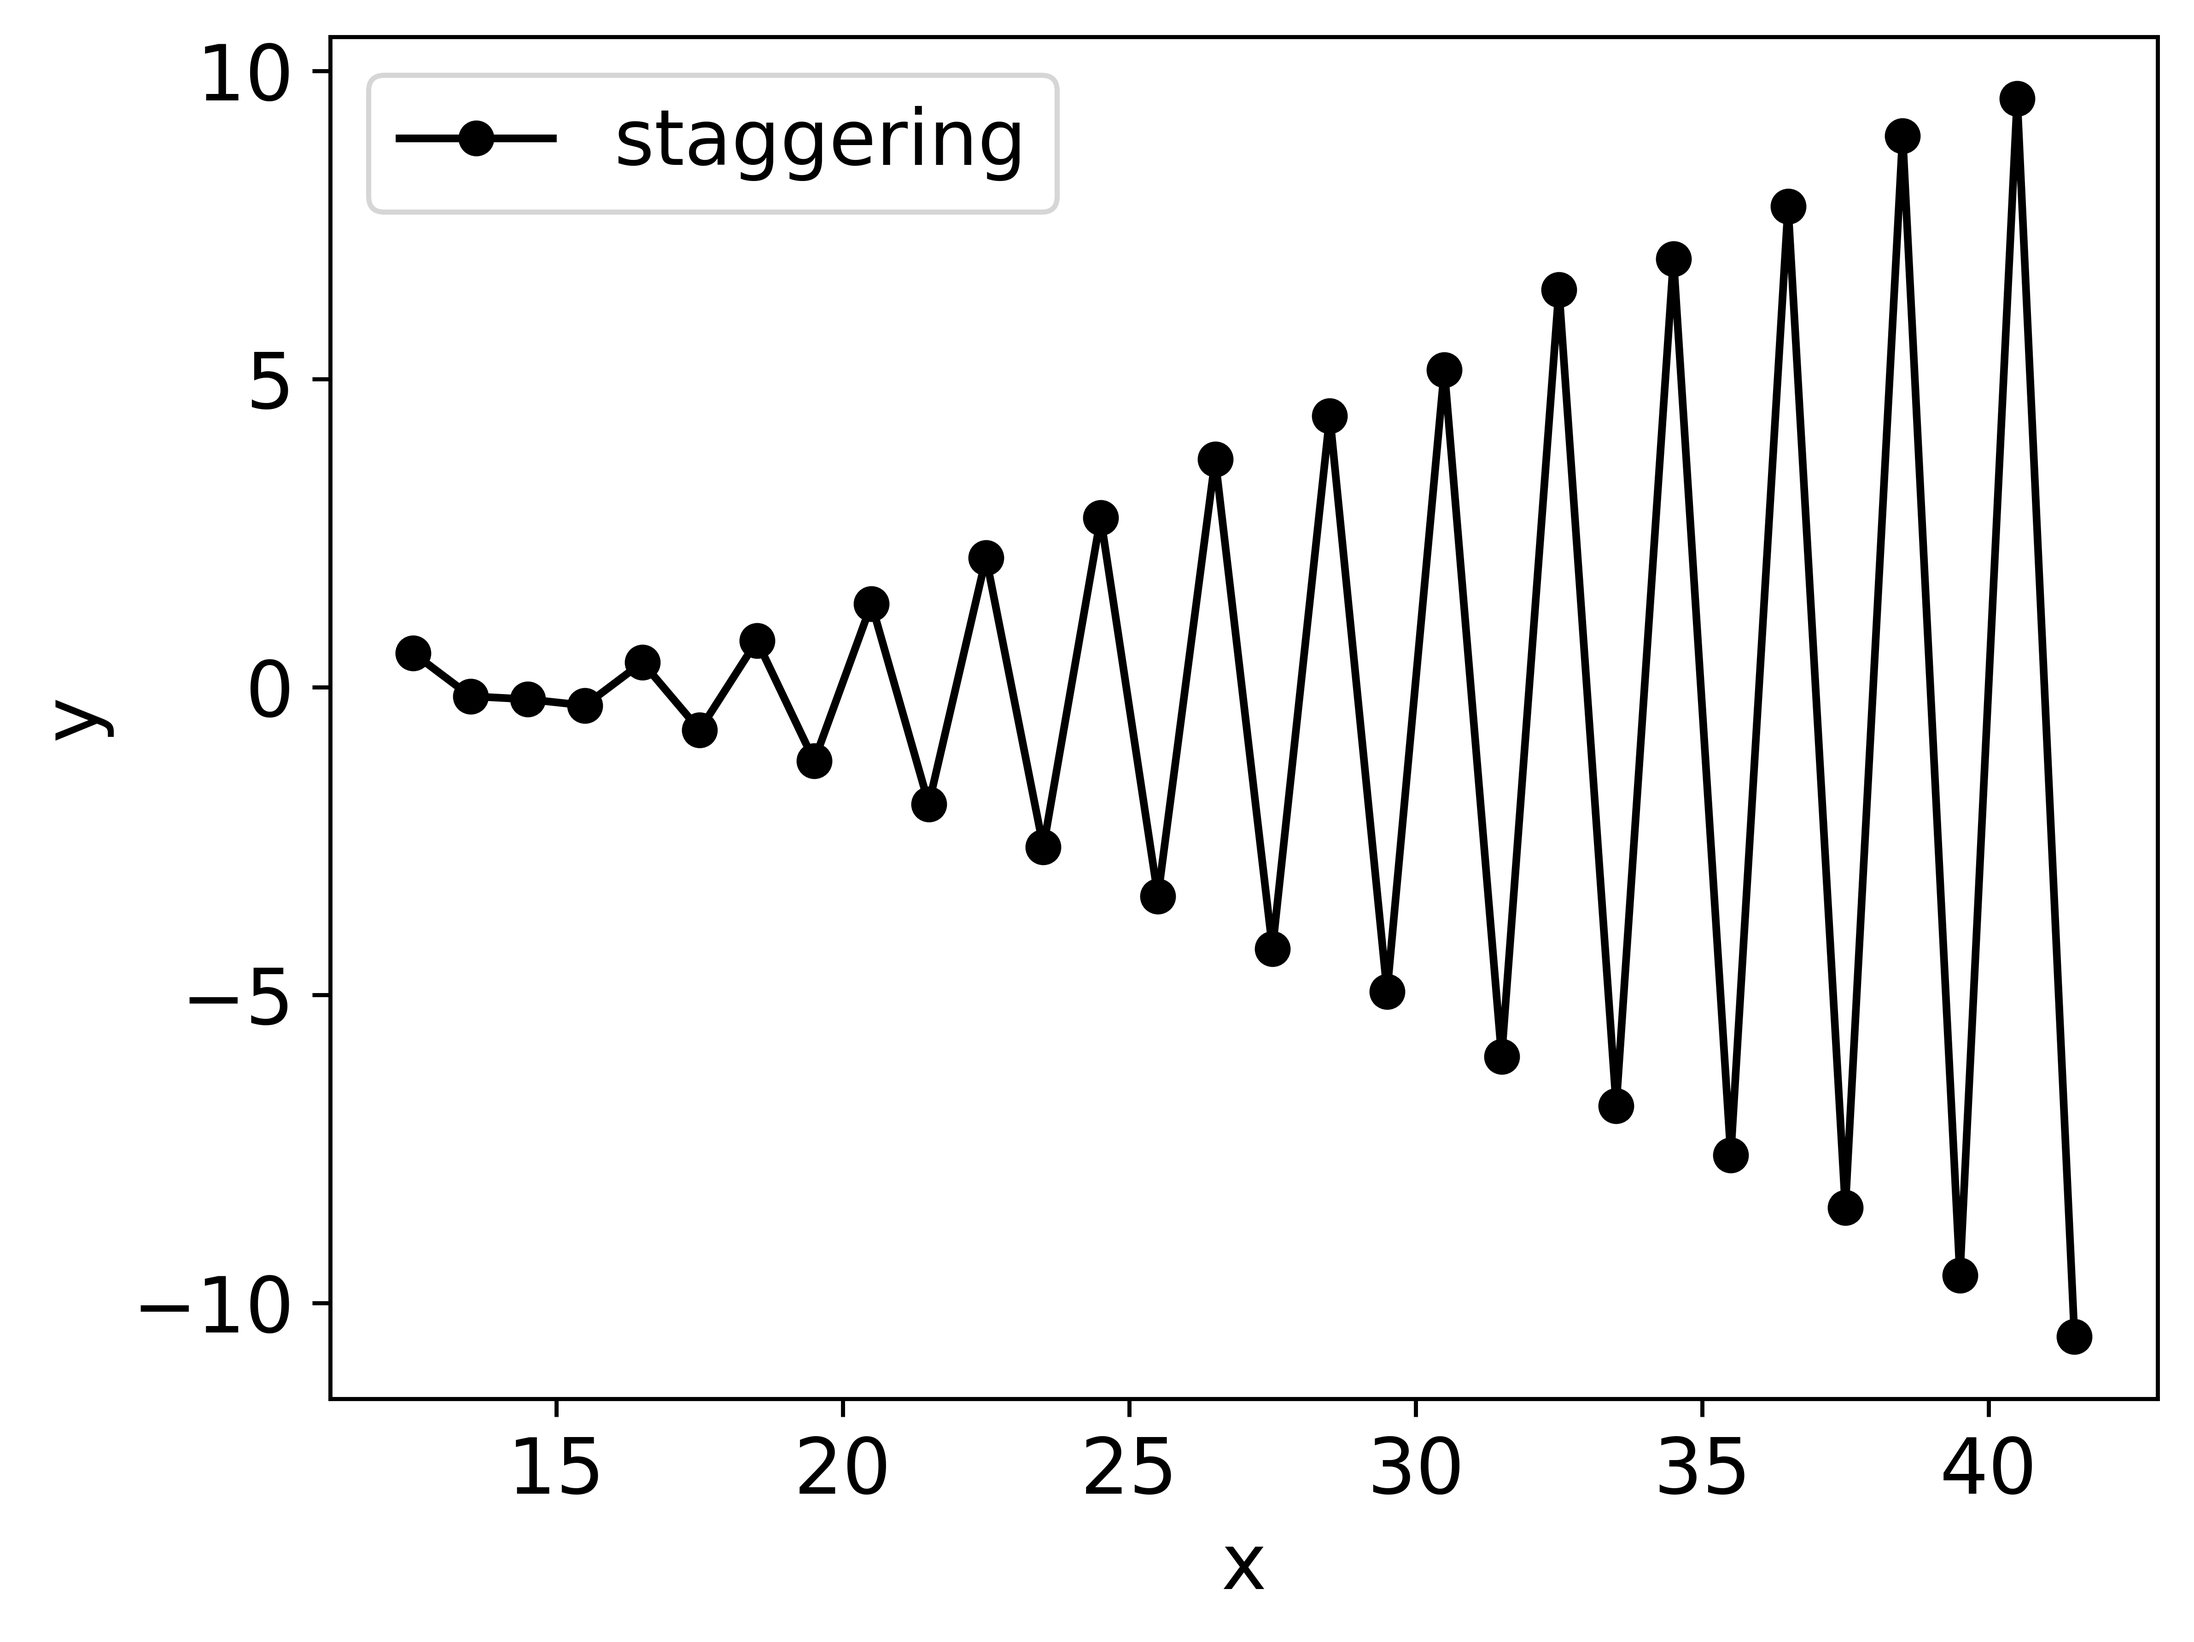
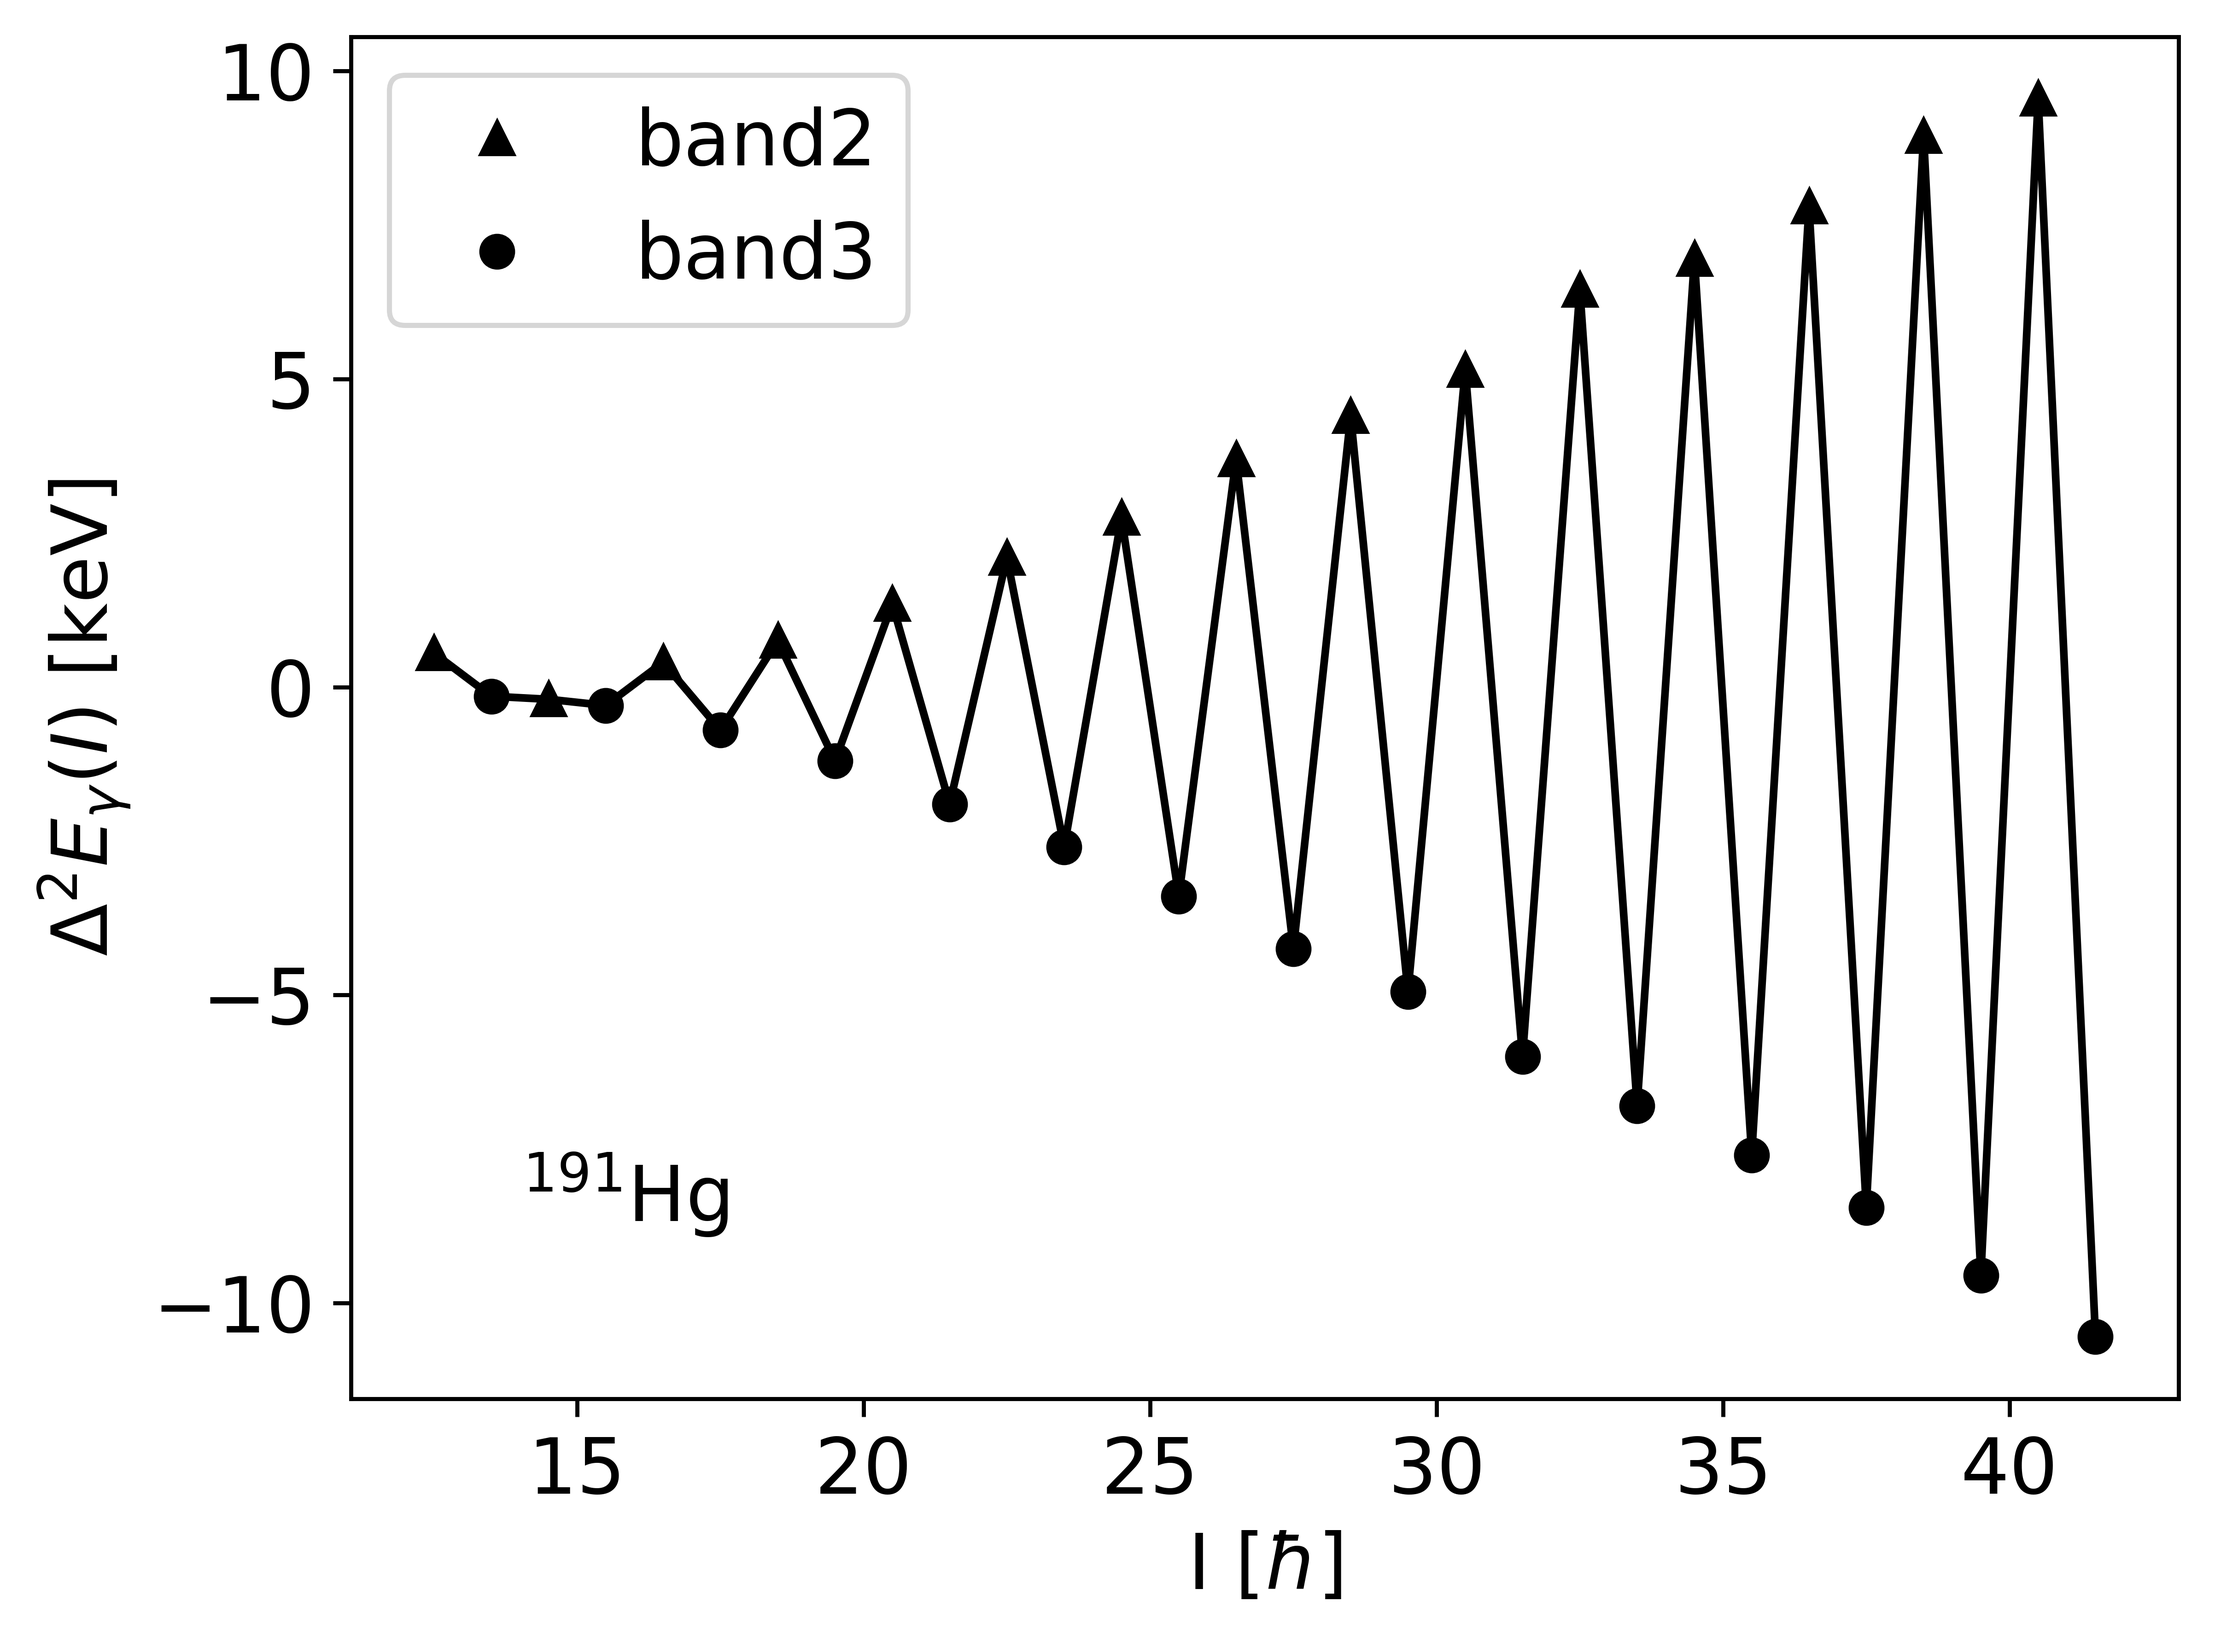
finish the joined plots for scatter parameter and relative gammas

diff --git a/Code-Collection/Signature-Splitting/signature.py b/Code-Collection/Signature-Splitting/signature.py
@@ -4,7 +4,7 @@ import numpy as np
 from numpy import random as rd
 
 import plotter as plt
-
+import joiner as join
 # choose the path for the file that will contain any debug information during code execution
 DEBUG_PATH = 'DEBUG_INFO.DAT'
 
@@ -145,7 +145,7 @@ def Stagger(band_1, band_2, spin):
 
 
 def Relative_Gamma(E, I):
-    RELATIVE_FACTOR = 9.8 * (2.0 * I - 1.0)
+    RELATIVE_FACTOR = 9.6 * (2.0 * I - 1.0)
     return E - RELATIVE_FACTOR
 
 
@@ -170,20 +170,30 @@ def GenerateRelativeGammas(band):
     for count in range(1, len(spins)):
         E_gamma = E[count] - E[count - 1]
         gammas_spins.append(spins[count])
-        gammas.append(Relative_Gamma(E_gamma, spins[count]))
+        gammas.append(round(Relative_Gamma(E_gamma, spins[count]), 5))
     return gammas_spins, gammas
 
 
-print(GenerateRelativeGammas(BAND2))
-print(GenerateRelativeGammas(BAND3))
+HG_NUCLEUS = r'$^{191}$Hg'
+
+
+GRG2 = GenerateRelativeGammas(BAND2)
+GRG3 = GenerateRelativeGammas(BAND3)
+
+relative_data = [[GRG2[0], GRG2[1], '^k', 'band2'],
+                 [GRG3[0], GRG3[1], 'ok', 'band3'], [sorted(GRG2[0] + GRG3[0]), join.Join(GRG2[1], GRG3[1]), '-k', '']]
+
 
 band2_spins, band2_staggers = GenerateStaggerBands(BAND2, BAND3)
 band3_spins, band3_staggers = GenerateStaggerBands(BAND3, BAND2)
 
-plot_data = [[band2_spins, band2_staggers, '^-r', 'band2'],
-             [band3_spins, band3_staggers, 'o-k', 'band3']]
+plot_data = [[band2_spins, band2_staggers, '^k', 'band2'],
+             [band3_spins, band3_staggers, 'ok', 'band3']]
 
-plt.PlotData(plot_data, 'staggering.png', 'x', 'y', 'extra')
+plt.PlotData(relative_data, 'relative_gammas.png',
+             r'I [$\hbar$]', r'$E_\gamma(I\to I-2)-9.6(2I-1)$ [keV]', HG_NUCLEUS)
+
+plt.PlotData(plot_data, 'staggering.png', 'x', 'y', HG_NUCLEUS)
 
 
 # generate the joined staggering paramaters
@@ -214,10 +224,12 @@ def JoinData(staggers1, staggers2):
 
 
 joined_spins = sorted(band2_spins + band3_spins)
-joined_staggers = JoinData(band2_staggers, band3_staggers)
-joined_data = [[joined_spins, joined_staggers, 'o-k', 'staggering']]
+joined_staggers = join.Join(band2_staggers, band3_staggers)
+joined_data = [[band2_spins, band2_staggers, '^k', 'band2'],
+               [band3_spins, band3_staggers, 'ok', 'band3'], [joined_spins, joined_staggers, '-k', '']]
 
-plt.PlotData(joined_data, 'joined_staggering.png', 'x', 'y', 'extra')
+plt.PlotData(joined_data, 'joined_staggering.png',
+             r'I [$\hbar$]', r'$\Delta^2 E_\gamma(I)$ [keV]', HG_NUCLEUS)
 
 # plt.rcParams.update({'font.size': 15})
 

diff --git a/Code-Collection/Signature-Splitting/joiner.py b/Code-Collection/Signature-Splitting/joiner.py
@@ -1,0 +1,28 @@
+#!/Users/robertpoenaru/.pyenv/shims/python
+def Join(data_1, data_2):
+    l1 = len(data_1)
+    l2 = len(data_2)
+    ret_data = []
+    if(l1 >= l2):
+        count = 0
+        for x1 in data_1:
+            ret_data.append(x1)
+            try:
+                ret_data.append(data_2[count])
+            except IndexError:
+                pass
+            else:
+                count = count + 1
+        return ret_data
+    else:
+        count = 0
+        for x2 in data_2:
+            ret_data.append(x2)
+            try:
+                ret_data.append(data_1[count])
+            except IndexError:
+                pass
+            else:
+                count = count + 1
+        return ret_data
+    return 'NAN'

diff --git a/Code-Collection/Signature-Splitting/plotter.py b/Code-Collection/Signature-Splitting/plotter.py
@@ -15,6 +15,8 @@ def PlotData(data, FILE, xlabel, ylabel, extra_text):
         plt.plot(x, y, plot_style, label=plot_label)
     ax.set_xlabel(xlabel)
     ax.set_ylabel(ylabel)
+    plt.text(0.15, 0.15, extra_text, horizontalalignment='center',
+             verticalalignment='center', transform=ax.transAxes)
     ax.legend(loc='best')
     plt.savefig(FILE, dpi=MAX_DPI, bbox_inches=BBOX)
     plt.close()
